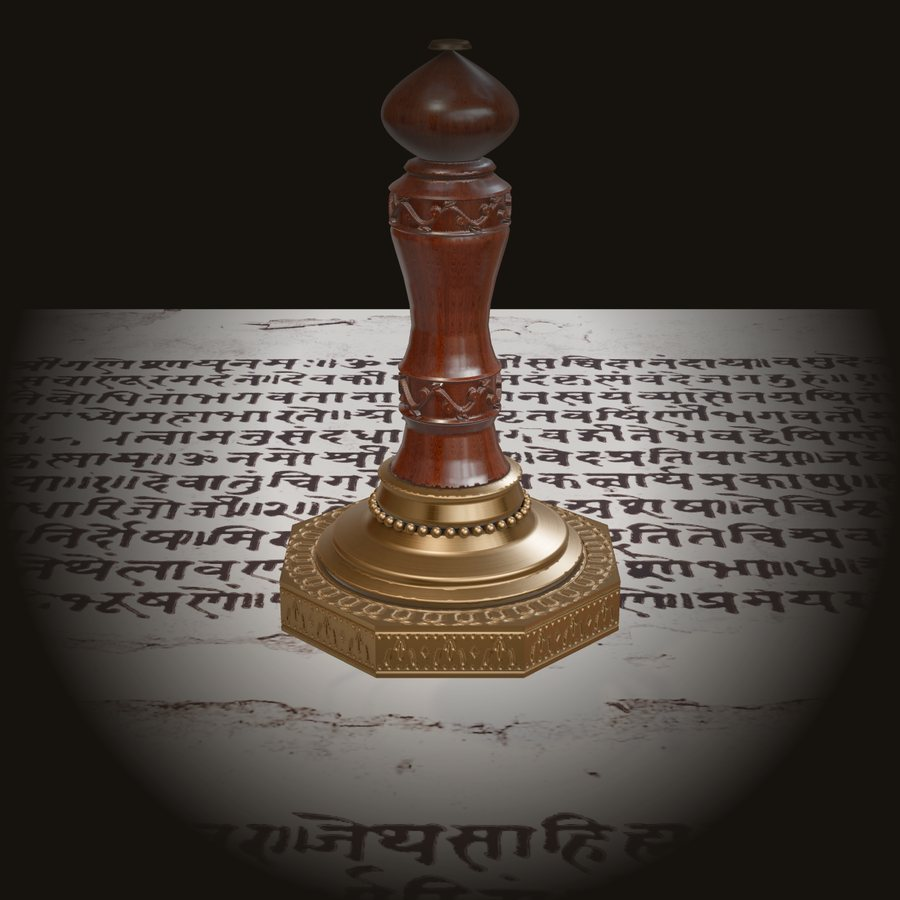
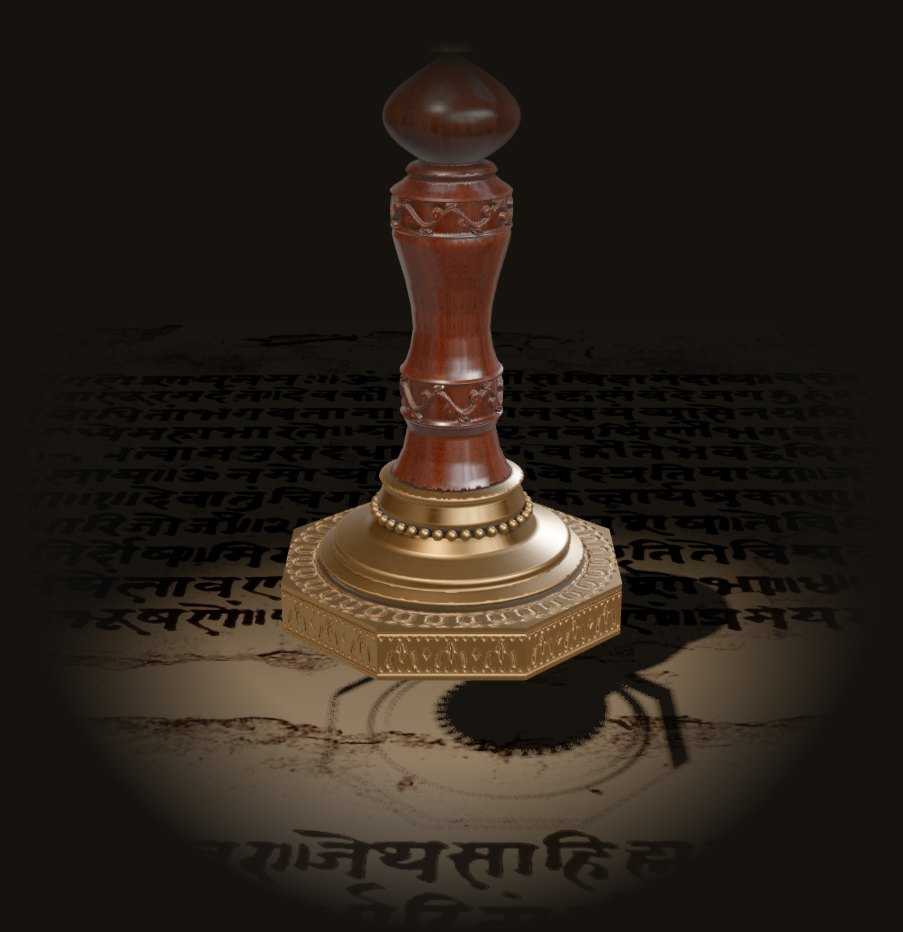
site: load the hero without a flash and light only the lamp's pool

diff --git a/site/seal3d.js b/site/seal3d.js
@@ -82,13 +82,18 @@ async function start() {
   await document.fonts.load('700 40px "Tiro Devanagari Marathi"').catch(() => {});
 
   // Load the model and the studio first; if either fails, the still image stays.
+  // Everything the first frame needs loads before the canvas replaces the still, so a visitor never
+  // sees untextured wood or a black page while the rest arrives.
   const draco = new DRACOLoader().setDecoderPath('vendor/draco/');
-  let gltf, hdr;
+  const loader = new THREE.TextureLoader();
+  let gltf, hdr, paperTex, woodMaps;
   try {
-    [gltf, hdr] = await Promise.all([
+    [gltf, hdr, paperTex, ...woodMaps] = await Promise.all([
       new GLTFLoader().setDRACOLoader(draco).loadAsync('assets/stamp.glb'),
       // A photographed studio (Poly Haven, CC0) gives the metal and lacquer real softboxes to reflect.
       new HDRLoader().loadAsync('assets/pbr/brown_photostudio_02_1k.hdr'),
+      loader.loadAsync('assets/1765-saka-1843-ce-jnanesvari-jnandeva-dnyaneshwar.jpg'),
+      ...['diff', 'nor_gl', 'rough'].map(n => loader.loadAsync('assets/pbr/rosewood_veneer1_' + n + '_1k.jpg')),
     ]);
   } catch {
     return;
@@ -102,39 +107,39 @@ async function start() {
   renderer.shadowMap.type = THREE.PCFSoftShadowMap;
   renderer.toneMapping = THREE.AgXToneMapping;
   renderer.toneMappingExposure = 1.15;
-  host.append(renderer.domElement);
-  host.classList.add('live');
 
   const scene = new THREE.Scene();
   const pmrem = new THREE.PMREMGenerator(renderer);
-  scene.environment = pmrem.fromEquirectangular(hdr).texture;
+  // The studio is given to each material, not to the scene, so the metal and wood reflect it while
+  // the page takes only a trace and stays dark outside the lamp's pool.
+  const studio = pmrem.fromEquirectangular(hdr).texture;
   hdr.dispose();
-  scene.environmentIntensity = 0.75;
 
   const camera = new THREE.PerspectiveCamera(32, 1, 0.1, 100);
   camera.position.set(0, 7.6, 12.8);
   camera.lookAt(0, 2.8, 0);
 
-  // One warm lamp: a pool of light on the page that falls off into the dark ground around it.
-  const lamp = new THREE.SpotLight(0xffe2b8, 420, 40, Math.PI / 6.5, 1, 2);
+  // One warm lamp: a round pool of light on the page that falls off into the dark ground around it.
+  // The cone is narrow enough that the pool ends inside the page, so no edge of the sheet is ever lit.
+  const lamp = new THREE.SpotLight(0xffe2b8, 520, 40, Math.PI / 9, 1, 2);
   lamp.position.set(-3, 14, 5);
   lamp.target.position.set(0, 0, 0.5);
   lamp.castShadow = true;
   lamp.shadow.mapSize.set(2048, 2048);
   lamp.shadow.radius = 8;
   lamp.shadow.bias = -0.0004;
-  // A cool rim from behind separates the stamp from the dark ground.
-  const rim = new THREE.DirectionalLight(0xd8e4ff, 1.4);
+  // A cool rim from behind separates the stamp from the dark ground. It is a narrow spot on the stamp,
+  // not a directional light, which would light the whole page evenly and show its far edge.
+  const rim = new THREE.SpotLight(0xd8e4ff, 260, 30, Math.PI / 14, 0.6, 2);
   rim.position.set(4, 6, -8);
-  scene.add(lamp, lamp.target, rim, new THREE.AmbientLight(0xffffff, 0.04));
+  rim.target.position.set(0, 2.6, 0);
+  scene.add(lamp, lamp.target, rim, rim.target, new THREE.AmbientLight(0xffffff, 0.04));
 
   const aniso = renderer.capabilities.getMaxAnisotropy();
-  // Paper: an 1843 Marathi manuscript page (credited on the page).
-  const loader = new THREE.TextureLoader();
-  const paperTex = loader.load('assets/1765-saka-1843-ce-jnanesvari-jnandeva-dnyaneshwar.jpg');
+  // Paper: an 1843 Marathi manuscript page (credited on the page), shown once and the right way round.
   paperTex.colorSpace = THREE.SRGBColorSpace;
   paperTex.anisotropy = aniso;
-  const paper = new THREE.Mesh(new THREE.PlaneGeometry(22, 27), new THREE.MeshStandardMaterial({ map: paperTex, roughness: 0.95, color: 0x9a948c }));
+  const paper = new THREE.Mesh(new THREE.PlaneGeometry(22, 27), new THREE.MeshStandardMaterial({ map: paperTex, roughness: 0.95, color: 0x9a948c, envMap: studio, envMapIntensity: 0.02 }));
   paper.rotation.x = -Math.PI / 2;
   paper.position.z = -1;
   paper.receiveShadow = true;
@@ -151,14 +156,14 @@ async function start() {
   const ringTex = new THREE.CanvasTexture(rings);
   ringTex.wrapS = ringTex.wrapT = THREE.RepeatWrapping;
   ringTex.repeat.set(1, 3);
-  const brass = new THREE.MeshPhysicalMaterial({ color: 0xb48c52, metalness: 1, roughness: 0.42, roughnessMap: ringTex, vertexColors: true });
+  const brass = new THREE.MeshPhysicalMaterial({ envMap: studio, envMapIntensity: 0.75, color: 0xb48c52, metalness: 1, roughness: 0.42, roughnessMap: ringTex, vertexColors: true });
   // The printing face is drawn here, so its engraving always matches the impression.
   const face = new THREE.CanvasTexture(sealFace(1024, '#fff', '#000', true));
-  const faceMat = new THREE.MeshPhysicalMaterial({ color: 0xb48c52, metalness: 1, roughness: 0.55, bumpMap: face, bumpScale: 6 });
+  const faceMat = new THREE.MeshPhysicalMaterial({ envMap: studio, envMapIntensity: 0.75, color: 0xb48c52, metalness: 1, roughness: 0.55, bumpMap: face, bumpScale: 6 });
 
   // Photographed rosewood (Poly Haven, CC0): sheesham is Indian rosewood. Grain runs along the handle.
   const pbr = (name, srgb) => {
-    const t = loader.load('assets/pbr/rosewood_veneer1_' + name + '_1k.jpg');
+    const t = woodMaps[['diff', 'nor_gl', 'rough'].indexOf(name)];
     t.wrapS = t.wrapT = THREE.RepeatWrapping;
     t.repeat.set(2, 0.5);
     t.anisotropy = aniso;
@@ -166,6 +171,7 @@ async function start() {
     return t;
   };
   const wood = new THREE.MeshPhysicalMaterial({
+    envMap: studio, envMapIntensity: 0.75,
     map: pbr('diff', true), normalMap: pbr('nor_gl'), roughnessMap: pbr('rough'), vertexColors: true,
     color: 0xa89482, roughness: 0.8, clearcoat: 0.35, clearcoatRoughness: 0.18,
   });
@@ -241,6 +247,18 @@ async function start() {
   }
   new ResizeObserver(size).observe(host);
   size();
+  // Draw the first frame off screen, then fade the canvas in over the still and drop the still
+  // only once the fade is done, so the hand-over can't flash.
+  renderer.render(scene, camera);
+  host.append(renderer.domElement);
+  // Two frames so the canvas is laid out at opacity 0 before the fade starts. The render loop hides the
+  // still once the fade has had time to finish. Not transitionend, which doesn't fire when no transition
+  // runs, and not a timer, which a busy page can hold back: the still must never stay under the canvas.
+  let liveAt = Infinity;
+  requestAnimationFrame(() => requestAnimationFrame(() => {
+    host.classList.add('live');
+    liveAt = performance.now();
+  }));
   let visible = true;
   new IntersectionObserver(([e]) => { visible = e.isIntersecting; }).observe(host);
 
@@ -248,6 +266,7 @@ async function start() {
   const ease = t => t < 0.5 ? 4 * t * t * t : 1 - Math.pow(-2 * t + 2, 3) / 2;
   renderer.setAnimationLoop(time => {
     timer.update(time);
+    if (performance.now() - liveAt > 500 && !host.classList.contains('shown')) host.classList.add('shown');
     if (!visible) return;
     const dt = timer.getDelta();
     stamp.rotation.z += (-tilt.x - stamp.rotation.z) * 0.07;

diff --git a/site/styles.css b/site/styles.css
@@ -81,10 +81,15 @@ h2 { font-weight: 800; font-size: var(--s-heading); line-height: 1.02; letter-sp
 
 .hero { display: grid; grid-template-columns: minmax(0, 1fr) minmax(0, 1.05fr); gap: 16px 48px; align-items: center; padding-top: 4vh; min-height: calc(92vh - 64px); }
 .seal3d { height: min(76vh, 720px); display: grid; place-items: center; }
-.seal3d.live img { display: none; }
-.seal3d canvas { width: 100%; height: 100%; display: block; cursor: pointer;
-  -webkit-mask-image: radial-gradient( /* taste-skill-ignore: edge fade on the rendered picture */ellipse 58% 62% at 50% 42%, #000 45%, transparent 72%);
-  mask-image: radial-gradient( /* taste-skill-ignore */ellipse 58% 62% at 50% 42%, #000 45%, transparent 72%); }
+/* The still and the canvas share one cell; the canvas fades in over the still, which goes once it is covered. */
+.seal3d > * { grid-area: 1 / 1; }
+.seal3d img { width: 100%; height: 100%; object-fit: contain; }
+.seal3d.shown img { visibility: hidden; }
+.seal3d canvas { width: 100%; height: 100%; display: block; cursor: pointer; opacity: 0; transition: opacity 0.45s ease-out;
+  -webkit-mask-image: radial-gradient( /* taste-skill-ignore: edge fade on the rendered picture */circle closest-side at 50% 52%, #000 62%, transparent 100%);
+  mask-image: radial-gradient( /* taste-skill-ignore */circle closest-side at 50% 52%, #000 62%, transparent 100%); }
+.seal3d.live canvas { opacity: 1; }
+@media (prefers-reduced-motion: reduce) { .seal3d canvas { transition: none; } }
 .hint { grid-column: 2; color: var(--soft); font-size: var(--s-small); margin: 0; }
 @media (max-width: 900px) { .hero { grid-template-columns: 1fr; min-height: 0; padding-top: 40px; } .hint { grid-column: 1; } .seal3d { height: min(88vw, 420px); } }
 

diff --git a/site/index.html b/site/index.html
@@ -42,7 +42,7 @@
       <p class="actions"><a class="button" href="#try">Watch an agent earn it <span class="arrow" aria-hidden="true">→</span></a><a class="button quiet" href="https://harshitwandhare.github.io/mohar/latest/getting-started/">Install the CLI</a></p>
     </div>
     <div class="seal3d" id="seal3d">
-      <img fetchpriority="high" src="assets/seal-still.jpg" alt="A seal stamp with a carved rosewood handle and an engraved octagonal brass die, standing on an old manuscript page" width="900" height="900">
+      <img fetchpriority="high" src="assets/seal-still.jpg" alt="A seal stamp with a carved rosewood handle and an engraved octagonal brass die, standing on an old manuscript page" width="903" height="932">
     </div>
     <p class="hint">Tilt the stamp with your pointer. Click it, or run the agent below, and it presses a receipt.</p>
   </section>
